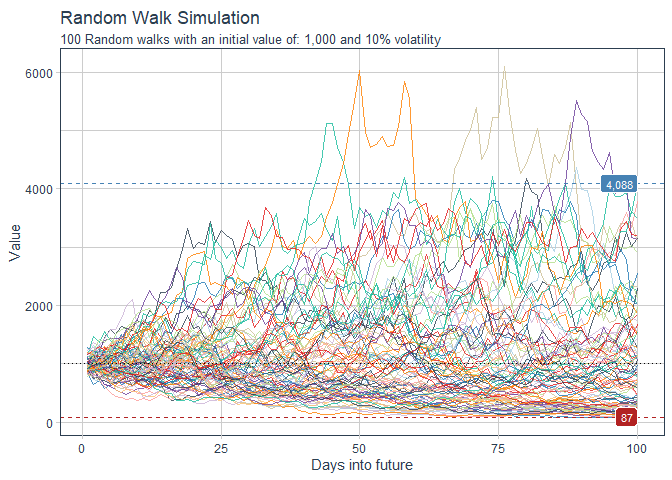
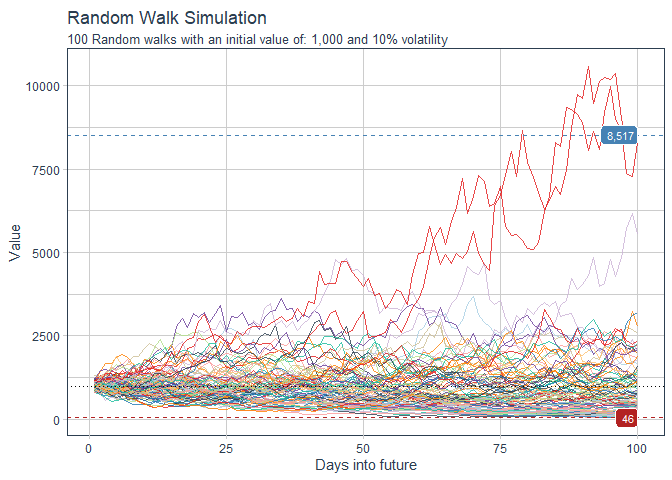
rebuild README

diff --git a/README.md b/README.md
@@ -47,14 +47,14 @@ df <- ts_random_walk()
 
 head(df)
 #> # A tibble: 6 x 4
-#>     run     x        y cum_y
-#>   <dbl> <dbl>    <dbl> <dbl>
-#> 1     1     1  0.0258  1026.
-#> 2     1     2  0.0371  1064.
-#> 3     1     3 -0.00873 1055.
-#> 4     1     4  0.0906  1150.
-#> 5     1     5  0.127   1296.
-#> 6     1     6 -0.0208  1269.
+#>     run     x       y cum_y
+#>   <dbl> <dbl>   <dbl> <dbl>
+#> 1     1     1 -0.0110  989.
+#> 2     1     2  0.0103  999.
+#> 3     1     3  0.0212 1020.
+#> 4     1     4  0.131  1154.
+#> 5     1     5  0.0496 1212.
+#> 6     1     6 -0.0894 1103.
 ```
 
 Now that the data has been generated, lets take a look at it.
